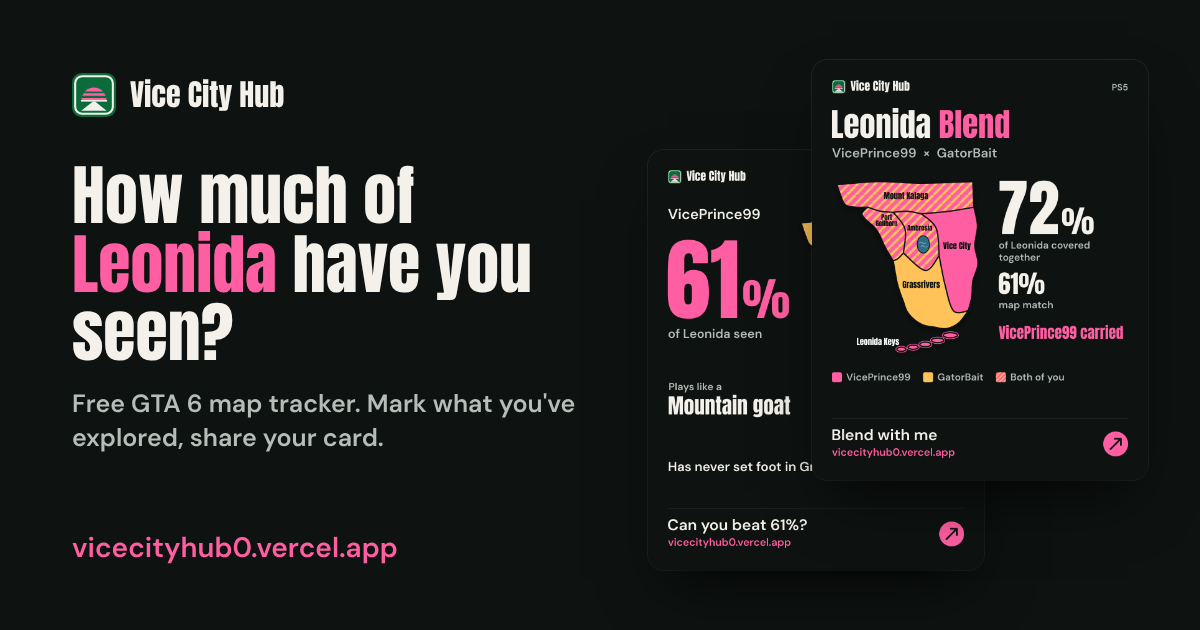
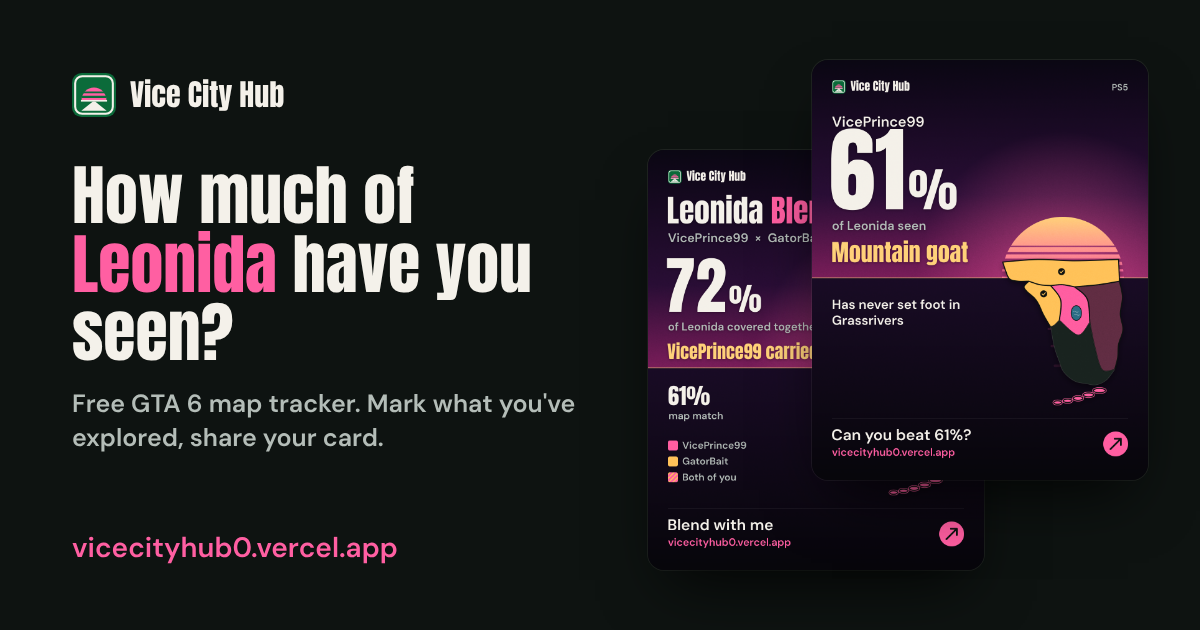
Cards as posters: Leonida at dusk
Every share card is now a poster grown from the hub's own mark, a striped sun
setting over the road: a sky in the theme's colours, the sun half under the
horizon with the mark's bands cut through it, the sea with its reflection,
and the map rising from the sea in front of the sun.

- The big number sits in the open sky; the playstyle, rank or Blend result
  in the sun's gold just above the horizon; details on the dark sea.
- No small grey labels above headings.
- Fine grain over each card so the gradients never band after a feed
  recompresses the image.
- Bingo card on the same scene, without the reflection behind its score.
- Link preview rebuilt with the new cards.

Claude-Session: https://claude.ai/code/session_01V1vhkYmtr5WoKPd5KrFuy5

diff --git a/site/hub/hub.js b/site/hub/hub.js
@@ -78,11 +78,11 @@
   // passed is the accent at 35% over the background, so all four levels step clearly in lightness as well as colour.
   var THEMES = {
     night:  { name: 'Neon night', bg: '#0E1311', bg2: '#0E1311', ink: '#F4F1EA', ink2: '#B4BDB8', accent: '#FF5FA2', passed: '#622E44', done: '#FFC35A',
-              onFull: '#0E1311', edge: '#0E1311', lake: '#2C6E86', sea: '#0F1F25', line: 'rgba(244,241,234,.14)', fog: 'rgba(244,241,234,.09)', fill: ['#1A2420'] },
+              onFull: '#0E1311', edge: '#0E1311', lake: '#2C6E86', sea: '#0F1F25', sky: ['#0B0714', '#2A0E36', '#7A1E5A'], sun: ['#FFD27A', '#FF5FA2'], water: ['#1A0C26', '#07060B'], line: 'rgba(244,241,234,.14)', fog: 'rgba(244,241,234,.09)', fill: ['#1A2420'] },
     sunset: { name: 'Golden hour', bg: '#2A0F22', bg2: '#4A1A2A', ink: '#FFF3E4', ink2: '#F2C9B0', accent: '#FF6B5B', passed: '#742F36', done: '#FFC35A',
-              onFull: '#2A0F22', edge: '#2A0F22', lake: '#3B6C8C', sea: '#341429', line: 'rgba(255,243,228,.16)', fog: 'rgba(255,214,170,.10)', fill: ['#3A1A30'] },
+              onFull: '#2A0F22', edge: '#2A0F22', lake: '#3B6C8C', sea: '#341429', sky: ['#1A0714', '#4A1430', '#C2413F'], sun: ['#FFE6A0', '#FF6B5B'], water: ['#2A0D1E', '#0E050C'], line: 'rgba(255,243,228,.16)', fog: 'rgba(255,214,170,.10)', fill: ['#3A1A30'] },
     ocean:  { name: 'Ocean drive', bg: '#08151F', bg2: '#0B2233', ink: '#EEF7FA', ink2: '#A9C3CC', accent: '#3FD6E8', passed: '#1B5965', done: '#FFC35A',
-              onFull: '#08151F', edge: '#08151F', lake: '#2A6F93', sea: '#0A1C29', line: 'rgba(238,247,250,.14)', fog: 'rgba(238,247,250,.09)', fill: ['#14232E'] }
+              onFull: '#08151F', edge: '#08151F', lake: '#2A6F93', sea: '#0A1C29', sky: ['#030B12', '#0A2A40', '#1F7A8C'], sun: ['#FFE7A0', '#FF8A5B'], water: ['#062030', '#02080D'], line: 'rgba(238,247,250,.14)', fog: 'rgba(238,247,250,.09)', fill: ['#14232E'] }
   };
   function levelFill(T, l) { return [null, T.passed, T.accent, T.done][l]; }
   // Short level words on the map, so a label never runs past its region.
@@ -924,15 +924,16 @@
     cv.width = W * 2; cv.height = H * 2;
     var ctx = cv.getContext('2d');
     ctx.setTransform(2, 0, 0, 2, 0, 0);
-    var bg = ctx.createLinearGradient(0, 0, 0, H); bg.addColorStop(0, T.bg); bg.addColorStop(1, T.bg2);
-    ctx.fillStyle = bg; ctx.fillRect(0, 0, W, H);
     ctx.textAlign = 'left'; ctx.textBaseline = 'alphabetic';
+    scene(ctx, T, W, H, 470, 880, 140, true);
     topRow(ctx, T, W, 64, 44);
-    var head = tr('Leonida Bingo') + '  ·  ' + monthName(bingo.season);
-    ctx.fillStyle = T.accent; fitText(ctx, head, W - 128, 36, '600 {s}px "DM Sans", sans-serif'); ctx.fillText(head, 64, 214);
-    ctx.fillStyle = T.ink; fitText(ctx, L.label, W - 128, 104, '400 {s}px Anton, sans-serif'); ctx.fillText(L.label, 60, 330);
-    ctx.fillStyle = T.ink2; fitText(ctx, L.why, W - 128, 36, '600 {s}px "DM Sans", sans-serif'); ctx.fillText(L.why, 64, 386);
-    var gx = 64, gy = 446, cs = 104, gap = 10, on = {};
+    lift(ctx, true);
+    ctx.fillStyle = T.ink; fitText(ctx, L.label, 680, 100, '400 {s}px Anton, sans-serif'); ctx.fillText(L.label, 60, 258);
+    var sub = tr('Leonida Bingo') + ' · ' + monthName(bingo.season);
+    ctx.fillStyle = T.sun[0]; fitText(ctx, sub, 680, 38, '600 {s}px "DM Sans", sans-serif'); ctx.fillText(sub, 64, 320);
+    ctx.fillStyle = T.ink2; fitText(ctx, L.why, 680, 34, '600 {s}px "DM Sans", sans-serif'); ctx.fillText(L.why, 64, 372);
+    lift(ctx, false);
+    var gx = 64, gy = 520, cs = 100, gap = 10, on = {};
     LINES5.forEach(function (l) { if (l.every(function (i) { return bingo.marks[i]; })) l.forEach(function (i) { on[i] = 1; }); });
     bingo.squares.forEach(function (q, i) {
       var x = gx + (i % 5) * (cs + gap), y = gy + Math.floor(i / 5) * (cs + gap);
@@ -949,19 +950,20 @@
       }
     });
     var rx = 664, n = tickedIn(bingo.marks), ln = bingoLines();
-    ctx.fillStyle = T.ink; ctx.font = '400 128px Anton, sans-serif'; ctx.fillText(String(n), rx, 560);
+    ctx.fillStyle = T.ink; ctx.font = '400 128px Anton, sans-serif'; ctx.fillText(String(n), rx, 636);
     var nw = ctx.measureText(String(n)).width;
-    ctx.fillStyle = T.ink2; ctx.font = '400 60px Anton, sans-serif'; ctx.fillText('/24', rx + nw + 10, 560);
-    ctx.font = '600 32px "DM Sans", sans-serif'; ctx.fillText(tr('squares ticked'), rx + 2, 606);
-    ctx.fillStyle = ln ? T.done : T.ink; ctx.font = '400 92px Anton, sans-serif';
-    ctx.fillText(ln === 1 ? tr('1 line') : tr('{n} lines', { n: ln }), rx, 730);
+    ctx.fillStyle = T.ink2; ctx.font = '400 60px Anton, sans-serif'; ctx.fillText('/24', rx + nw + 10, 636);
+    ctx.font = '600 32px "DM Sans", sans-serif'; ctx.fillText(tr('squares ticked'), rx + 2, 682);
+    ctx.fillStyle = ln ? T.sun[0] : T.ink; ctx.font = '400 92px Anton, sans-serif';
+    ctx.fillText(ln === 1 ? tr('1 line') : tr('{n} lines', { n: ln }), rx, 800);
     BORDER.forEach(function (t, k) {
-      var y = 830 + k * 56, c = L.per[t];
+      var y = 880 + k * 54, c = L.per[t];
       roundRect(ctx, rx, y - 28, 32, 32, 7); ctx.fillStyle = BTHEME[t].color; ctx.fill();
       ctx.fillStyle = T.ink2; fitText(ctx, tr(BTHEME[t].name) + '  ' + c[0] + '/' + c[1], 1016 - rx - 48, 34, '600 {s}px "DM Sans", sans-serif');
       ctx.fillText(tr(BTHEME[t].name) + '  ' + c[0] + '/' + c[1], rx + 48, y);
     });
     dare(ctx, T, W, H, 0, n === 24 ? tr('Blackout. Can you match it?') : tr('Beat my bingo card'));
+    grain(ctx, W, H);
   }
   function star(ctx, cx, cy, r, color) {
     ctx.beginPath();
@@ -1352,11 +1354,6 @@
     ctx.font = '400 ' + Math.round(s / 2) + 'px Anton, sans-serif'; ctx.fillText('%', x + nw + 8, y);
     ctx.restore();
   }
-  // A label block: a small grey kicker over the value in the display face. Quiet, so the big number leads.
-  function labelBlock(ctx, T, kicker, value, x, y, size, maxW) {
-    ctx.fillStyle = T.ink2; fitText(ctx, kicker, maxW, Math.round(size * 0.46), '600 {s}px "DM Sans", sans-serif'); ctx.fillText(kicker, x + 2, y);
-    ctx.fillStyle = T.ink; fitText(ctx, value, maxW, size, '400 {s}px Anton, sans-serif'); ctx.fillText(value, x, y + size * 1.08);
-  }
   // A playstyle from where you went most, not how much: everyone gets a label they'd post.
   var STYLES = { kalaga: 'Mountain goat', gellhorn: 'Dockside drifter', ambrosia: 'Small-town legend', vice: 'City slicker', grass: 'Swamp rat', keys: 'Beach bum' };
   function playstyle(lv) {
@@ -1450,32 +1447,93 @@
     return ctx.createPattern(c, 'repeat');
   }
 
-  // Map cards: who, one huge number, the playstyle, the map, one true line. Only the number and the map carry colour.
+  // ---- the scene behind every card: Leonida at dusk, from the hub's own mark (a striped sun setting over the road) ----
+  // A sky in the theme's colours, the sun half under the horizon with the mark's bands cut through it, the sea with
+  // the sun's reflection, and a fine grain so gradients never band when a feed recompresses the image.
+  var grainTile = null;
+  function grain(ctx, W, H) {
+    if (!grainTile) {
+      grainTile = document.createElement('canvas'); grainTile.width = grainTile.height = 160;
+      var g = grainTile.getContext('2d'), d = g.createImageData(160, 160), seed = 7;
+      for (var i = 0; i < d.data.length; i += 4) {
+        seed = (Math.imul(seed, 1103515245) + 12345) >>> 0;
+        var v = (seed >>> 24) & 255; d.data[i] = d.data[i + 1] = d.data[i + 2] = v; d.data[i + 3] = 14;
+      }
+      g.putImageData(d, 0, 0);
+    }
+    ctx.save(); ctx.globalCompositeOperation = 'overlay'; ctx.fillStyle = ctx.createPattern(grainTile, 'repeat'); ctx.fillRect(0, 0, W, H); ctx.restore();
+  }
+  function scene(ctx, T, W, H, hy, sx, sr, still) {
+    var sky = ctx.createLinearGradient(0, 0, 0, hy);
+    sky.addColorStop(0, T.sky[0]); sky.addColorStop(0.62, T.sky[1]); sky.addColorStop(1, T.sky[2]);
+    ctx.fillStyle = sky; ctx.fillRect(0, 0, W, hy);
+    // a soft glow where the sun sits
+    var glow = ctx.createRadialGradient(sx, hy, sr * 0.4, sx, hy, sr * 2.4);
+    glow.addColorStop(0, hexA(T.sun[1], 0.45)); glow.addColorStop(1, hexA(T.sun[1], 0));
+    ctx.fillStyle = glow; ctx.fillRect(0, 0, W, hy);
+    // the sun, drawn on its own layer so the mark's bands cut only the sun, never the glow behind it
+    var sc = document.createElement('canvas'), d = Math.ceil(sr * 2) + 4;
+    sc.width = d * 2; sc.height = Math.ceil(sr) * 2 + 4;
+    var g = sc.getContext('2d'); g.scale(2, 2);
+    var sun = g.createLinearGradient(0, 0, 0, sr);
+    sun.addColorStop(0, T.sun[0]); sun.addColorStop(1, T.sun[1]);
+    g.beginPath(); g.arc(d / 2, sr + 1, sr, Math.PI, 0); g.fillStyle = sun; g.fill();
+    g.globalCompositeOperation = 'destination-out';
+    for (var k = 0; k < 5; k++) g.fillRect(0, sr * 0.48 + k * sr * 0.105, d, 4 + k * 3.2);
+    ctx.drawImage(sc, sx - d / 2, hy - sr - 1, d, sr + 2);
+    // the sea
+    var sea = ctx.createLinearGradient(0, hy, 0, H);
+    sea.addColorStop(0, T.water[0]); sea.addColorStop(1, T.water[1]);
+    ctx.fillStyle = sea; ctx.fillRect(0, hy, W, H - hy);
+    // the sun's reflection: short bright dashes that thin out towards the viewer
+    ctx.fillStyle = hexA(T.sun[1], 0.55);
+    for (var r = 0; r < (still ? 0 : 9); r++) {
+      var ry = hy + 10 + r * r * 4.2, rw = sr * (1.1 - r * 0.1), rh = 3 + r * 0.6;
+      if (rw <= 8) break;
+      ctx.globalAlpha = 0.75 - r * 0.07; roundRect(ctx, sx - rw / 2, ry, rw, rh, rh / 2); ctx.fill();
+    }
+    ctx.globalAlpha = 1;
+    ctx.fillStyle = hexA(T.sun[0], 0.7); ctx.fillRect(0, hy - 1, W, 2);
+  }
+  function hexA(hex, a) {
+    var n = parseInt(hex.slice(1), 16);
+    return 'rgba(' + (n >> 16 & 255) + ',' + (n >> 8 & 255) + ',' + (n & 255) + ',' + a + ')';
+  }
+  // Text over the sky gets a soft dark shadow so it holds on every part of the gradient.
+  function lift(ctx, on) { if (on) { ctx.shadowColor = 'rgba(0,0,0,.35)'; ctx.shadowBlur = 18; ctx.shadowOffsetY = 4; } else { ctx.shadowColor = 'transparent'; ctx.shadowBlur = 0; ctx.shadowOffsetY = 0; } }
+
+  // Map cards: a poster. The number in the sky, the playstyle under it, Leonida rising from the sea in front of the sun.
   function drawSquare(ctx, T, W, H) {
     var n = steps(), p = pctOf(n);
+    scene(ctx, T, W, H, 700, 806, 196);
     topRow(ctx, T, W, 64, 44);
+    lift(ctx, true);
     ctx.fillStyle = T.ink; var nm = cardName();
-    fitText(ctx, nm, 400, 46, '600 {s}px "DM Sans", sans-serif'); ctx.fillText(nm, 64, 222);
-    backed(ctx, T, 64, 266, 32);
-    bigPct(ctx, T, p, 56, 540, 410, 290);
-    ctx.fillStyle = T.ink2; ctx.font = '600 40px "DM Sans", sans-serif'; ctx.fillText(tr('of Leonida seen'), 64, 604);
-    labelBlock(ctx, T, tr('Plays like a'), playstyle(), 64, 772, 72, 400);
-    drawMap(ctx, T, 464, 176, 0.93, null, { labels: true });
-    ctx.fillStyle = T.ink; wrapFit(ctx, verdict(), 64, 1032, W - 128, 42, 34, 2, '600');
+    fitText(ctx, nm, 520, 46, '600 {s}px "DM Sans", sans-serif'); ctx.fillText(nm, 64, 214);
+    bigPct(ctx, T, p, 54, 480, 520, 300, p === 100 ? T.done : T.ink);
+    ctx.fillStyle = T.ink2; ctx.font = '600 40px "DM Sans", sans-serif'; ctx.fillText(tr('of Leonida seen'), 64, 546);
+    ctx.fillStyle = T.sun[0]; fitText(ctx, playstyle(), 500, 76, '400 {s}px Anton, sans-serif'); ctx.fillText(playstyle(), 62, 650);
+    lift(ctx, false);
+    drawMap(ctx, T, 592, 606, 0.7, null);
+    ctx.fillStyle = T.ink; wrapFit(ctx, verdict(), 64, 800, 470, 42, 32, 3, '600');
     dare(ctx, T, W, H, 0, mapDare(p));
+    grain(ctx, W, H);
   }
   function drawStory(ctx, T, W, H) {
     var n = steps(), p = pctOf(n);
+    scene(ctx, T, W, H, 990, 806, 220);
     topRow(ctx, T, W, 250, 52);
+    lift(ctx, true);
     ctx.fillStyle = T.ink; var nm = cardName();
     fitText(ctx, nm, W - 128, 54, '600 {s}px "DM Sans", sans-serif'); ctx.fillText(nm, 64, 408);
-    backed(ctx, T, 64, 456, 36);
-    bigPct(ctx, T, p, 54, 760, 420, 320);
-    ctx.fillStyle = T.ink2; ctx.font = '600 46px "DM Sans", sans-serif'; ctx.fillText(tr('of Leonida seen'), 64, 832);
-    drawMap(ctx, T, 476, 372, 0.9, null, { labels: true });
-    labelBlock(ctx, T, tr('Plays like a'), playstyle(), 64, 1120, 96, W - 128);
-    ctx.fillStyle = T.ink; wrapFit(ctx, verdict(), 64, 1312, W - 128, 46, 34, 2, '600');
+    bigPct(ctx, T, p, 52, 770, W - 128, 340, p === 100 ? T.done : T.ink);
+    ctx.fillStyle = T.ink2; ctx.font = '600 48px "DM Sans", sans-serif'; ctx.fillText(tr('of Leonida seen'), 64, 840);
+    ctx.fillStyle = T.sun[0]; fitText(ctx, playstyle(), 500, 88, '400 {s}px Anton, sans-serif'); ctx.fillText(playstyle(), 62, 950);
+    lift(ctx, false);
+    drawMap(ctx, T, 572, 880, 0.74, null, { labels: true });
+    ctx.fillStyle = T.ink; wrapFit(ctx, verdict(), 64, 1100, 460, 46, 34, 3, '600');
     dare(ctx, T, W, H, 0, mapDare(p));
+    grain(ctx, W, H);
   }
 
   // The lake reads as water: a blue pool with a dark shore and two light ripples, never a black hole.
@@ -1623,33 +1681,40 @@
     ctx.fillStyle = T.accent; ctx.fillText(tr('Wrapped'), x + aw, y);
   }
   function wrappedSub() { return cardName() + '  ·  ' + tr('since 19 Nov 2026'); }
+  function wrappedGrid(ctx, T, st, x, y, cw, rh, vs, ls) {
+    st.forEach(function (c, k) { statCell(ctx, T, c, x + (k % 2) * cw, y + Math.floor(k / 2) * rh, cw, vs, ls); });
+  }
   function drawWrappedSquare(ctx, T, W, H) {
     var n = steps(), p = pctOf(n), st = wrappedStats();
+    scene(ctx, T, W, H, 700, 806, 196);
     topRow(ctx, T, W, 64, 44);
-    wrappedHead(ctx, T, 60, 250, 104);
-    ctx.fillStyle = T.ink2; fitText(ctx, wrappedSub(), W - 128, 36, '600 {s}px "DM Sans", sans-serif'); ctx.fillText(wrappedSub(), 64, 312);
-    bigPct(ctx, T, p, 56, 580, 420, 240);
-    ctx.fillStyle = T.ink2; ctx.font = '600 38px "DM Sans", sans-serif'; ctx.fillText(tr('of Leonida seen'), 64, 640);
-    labelBlock(ctx, T, tr('Rank'), rank(n), 64, 734, 64, 420);
-    drawMap(ctx, T, 540, 360, 0.74);
-    ctx.fillStyle = T.line; ctx.fillRect(64, 900, W - 128, 2);
-    var cw = (W - 128) / st.length;
-    st.forEach(function (x, k) { statCell(ctx, T, x, 64 + k * cw, 1010, cw, st.length > 3 ? 76 : 88, 32); });
+    lift(ctx, true);
+    wrappedHead(ctx, T, 60, 236, 100);
+    ctx.fillStyle = T.ink2; fitText(ctx, wrappedSub(), W - 128, 36, '600 {s}px "DM Sans", sans-serif'); ctx.fillText(wrappedSub(), 64, 296);
+    bigPct(ctx, T, p, 54, 530, 520, 220, p === 100 ? T.done : T.ink);
+    ctx.fillStyle = T.ink2; ctx.font = '600 38px "DM Sans", sans-serif'; ctx.fillText(tr('of Leonida seen'), 64, 592);
+    ctx.fillStyle = T.sun[0]; fitText(ctx, rank(n), 500, 70, '400 {s}px Anton, sans-serif'); ctx.fillText(rank(n), 62, 680);
+    lift(ctx, false);
+    drawMap(ctx, T, 592, 606, 0.7, null);
+    wrappedGrid(ctx, T, st, 64, 812, 250, 160, 72, 30);
     dare(ctx, T, W, H, 0, tr('Get your Leonida Wrapped'));
+    grain(ctx, W, H);
   }
   function drawWrappedStory(ctx, T, W, H) {
     var n = steps(), p = pctOf(n), st = wrappedStats();
+    scene(ctx, T, W, H, 990, 806, 220);
     topRow(ctx, T, W, 250, 52);
-    wrappedHead(ctx, T, 58, 450, 132);
-    ctx.fillStyle = T.ink2; fitText(ctx, wrappedSub(), W - 128, 42, '600 {s}px "DM Sans", sans-serif'); ctx.fillText(wrappedSub(), 64, 520);
-    bigPct(ctx, T, p, 54, 840, 470, 330);
-    ctx.fillStyle = T.ink2; ctx.font = '600 46px "DM Sans", sans-serif'; ctx.fillText(tr('of Leonida seen'), 64, 910);
-    labelBlock(ctx, T, tr('Rank'), rank(n), 64, 1010, 76, 450);
-    drawMap(ctx, T, 560, 580, 0.74);
-    ctx.fillStyle = T.line; ctx.fillRect(64, 1150, W - 128, 2);
-    var rows = st.length > 2 ? 2 : 1;
-    st.forEach(function (x, k) { statCell(ctx, T, x, 64 + (k % 2) * 476, (rows === 2 ? 1240 : 1272) + Math.floor(k / 2) * 120, 476, rows === 2 ? 80 : 96, 36); });
+    lift(ctx, true);
+    wrappedHead(ctx, T, 58, 450, 128);
+    ctx.fillStyle = T.ink2; fitText(ctx, wrappedSub(), W - 128, 42, '600 {s}px "DM Sans", sans-serif'); ctx.fillText(wrappedSub(), 64, 522);
+    bigPct(ctx, T, p, 54, 800, 520, 280, p === 100 ? T.done : T.ink);
+    ctx.fillStyle = T.ink2; ctx.font = '600 46px "DM Sans", sans-serif'; ctx.fillText(tr('of Leonida seen'), 64, 870);
+    ctx.fillStyle = T.sun[0]; fitText(ctx, rank(n), 500, 84, '400 {s}px Anton, sans-serif'); ctx.fillText(rank(n), 62, 966);
+    lift(ctx, false);
+    drawMap(ctx, T, 572, 880, 0.74, null);
+    wrappedGrid(ctx, T, st, 64, 1120, 250, 168, 84, 34);
     dare(ctx, T, W, H, 0, tr('Get your Leonida Wrapped'));
+    grain(ctx, W, H);
   }
 
   // Leonida Blend: your map and a friend's (from their challenge link) on one card. Your colour is you, gold is them,
@@ -1664,13 +1729,11 @@
   function blendCarry(st) { return st.carry === 0 ? tr('Dead even') : tr('{name} carried', { name: st.carry > 0 ? blendMe() : rival.name }); }
   function blendKey(ctx, T, x, y, size, maxW) {
     var keyFill = [[T.accent, blendMe()], [T.done, rival.name], [stripes(ctx, T.accent, T.done, 14), tr('Both of you')]];
-    var cx = x, room = (maxW - (size + 14) * 3 - 80) / 3;
-    keyFill.forEach(function (l) {
-      roundRect(ctx, cx, y - size * 0.82, size, size, 6); ctx.fillStyle = l[0]; ctx.fill();
-      ctx.fillStyle = T.ink2; ctx.font = '600 ' + size + 'px "DM Sans", sans-serif';
-      var label = l[1]; while (ctx.measureText(label).width > room && label.length > 3) label = label.slice(0, -2) + '…';
-      ctx.fillText(label, cx + size + 14, y);
-      cx += size + 14 + ctx.measureText(label).width + 40;
+    keyFill.forEach(function (l, k) {
+      var ky = y + k * size * 1.6;
+      roundRect(ctx, x, ky - size * 0.82, size, size, 6); ctx.fillStyle = l[0]; ctx.fill();
+      ctx.fillStyle = T.ink2; fitText(ctx, l[1], maxW - size - 14, size, '600 {s}px "DM Sans", sans-serif');
+      ctx.fillText(l[1], x + size + 14, ky);
     });
   }
   function blendHead(ctx, T, W, y, size, pairSize) {
@@ -1682,29 +1745,38 @@
     ctx.fillStyle = T.ink2; fitText(ctx, pair, W - 128, pairSize, '600 {s}px "DM Sans", sans-serif'); ctx.fillText(pair, 64, y + pairSize * 1.5);
   }
   function drawBlendSquare(ctx, T, W, H) {
-    var st = blendStats(), x = 600;
+    var st = blendStats();
+    scene(ctx, T, W, H, 700, 806, 196);
     topRow(ctx, T, W, 64, 44);
-    blendHead(ctx, T, W, 250, 104, 42);
-    drawMap(ctx, T, 56, 350, 0.82, { mine: levels, theirs: rival.levels }, { labels: true });
-    bigPct(ctx, T, st.cover, x - 4, 560, 416, 200, T.ink);
-    ctx.fillStyle = T.ink2; wrapFit(ctx, tr('of Leonida covered together'), x, 606, 416, 32, 30, 2, '600');
-    ctx.fillStyle = T.ink; ctx.font = '400 80px Anton, sans-serif'; ctx.fillText(st.match + '%', x - 2, 752);
-    ctx.fillStyle = T.ink2; fitText(ctx, tr('map match'), 416, 32, '600 {s}px "DM Sans", sans-serif'); ctx.fillText(tr('map match'), x, 798);
-    ctx.fillStyle = T.accent; fitText(ctx, blendCarry(st), 416, 60, '400 {s}px Anton, sans-serif'); ctx.fillText(blendCarry(st), x, 896);
-    blendKey(ctx, T, 64, 1030, 32, W - 128);
+    lift(ctx, true);
+    blendHead(ctx, T, W, 236, 100, 40);
+    bigPct(ctx, T, st.cover, 54, 520, 500, 200, T.ink);
+    ctx.fillStyle = T.ink2; fitText(ctx, tr('of Leonida covered together'), 500, 36, '600 {s}px "DM Sans", sans-serif');
+    ctx.fillText(tr('of Leonida covered together'), 64, 580);
+    ctx.fillStyle = T.sun[0]; fitText(ctx, blendCarry(st), 500, 68, '400 {s}px Anton, sans-serif'); ctx.fillText(blendCarry(st), 62, 672);
+    lift(ctx, false);
+    drawMap(ctx, T, 592, 606, 0.7, { mine: levels, theirs: rival.levels });
+    statCell(ctx, T, [st.match + '%', tr('map match')], 64, 820, 480, 72, 32);
+    blendKey(ctx, T, 64, 960, 32, 480);
     dare(ctx, T, W, H, 0, tr('Blend with me'));
+    grain(ctx, W, H);
   }
   function drawBlendStory(ctx, T, W, H) {
     var st = blendStats();
+    scene(ctx, T, W, H, 990, 806, 220);
     topRow(ctx, T, W, 250, 52);
-    blendHead(ctx, T, W, 450, 132, 50);
-    var sc = 0.8; drawMap(ctx, T, (W - 600 * sc) / 2, 590, sc, { mine: levels, theirs: rival.levels }, { labels: true });
-    blendKey(ctx, T, 64, 1236, 34, W - 128);
-    ctx.fillStyle = T.line; ctx.fillRect(64, 1268, W - 128, 2);
-    statCell(ctx, T, [st.cover + '%', tr('covered together')], 64, 1366, 300, 96, 36);
-    statCell(ctx, T, [st.match + '%', tr('map match')], 380, 1366, 300, 96, 36);
-    statCell(ctx, T, [blendCarry(st), ' '], 700, 1366, 316, 64, 36);
+    lift(ctx, true);
+    blendHead(ctx, T, W, 450, 128, 48);
+    bigPct(ctx, T, st.cover, 54, 800, 520, 280, T.ink);
+    ctx.fillStyle = T.ink2; fitText(ctx, tr('of Leonida covered together'), 520, 44, '600 {s}px "DM Sans", sans-serif');
+    ctx.fillText(tr('of Leonida covered together'), 64, 866);
+    ctx.fillStyle = T.sun[0]; fitText(ctx, blendCarry(st), 500, 84, '400 {s}px Anton, sans-serif'); ctx.fillText(blendCarry(st), 62, 962);
+    lift(ctx, false);
+    drawMap(ctx, T, 572, 880, 0.74, { mine: levels, theirs: rival.levels }, { labels: true });
+    statCell(ctx, T, [st.match + '%', tr('map match')], 64, 1110, 480, 84, 36);
+    blendKey(ctx, T, 64, 1262, 34, 480);
     dare(ctx, T, W, H, 0, tr('Blend with me'));
+    grain(ctx, W, H);
   }
 
   // The day count since launch (19 Nov 2026 = Day one), on the visitor's own clock.

diff --git a/DESIGN.md b/DESIGN.md
@@ -87,19 +87,25 @@ its own bars. Every card type (Map, Wrapped, Blend, Bingo) has its own layout in
 feed shows a card at about a third of its size, so no text on a card is under 30px, and key text is 46px and up.
 Cards are checked after a 1080px resize and JPEG at quality 70, the way feeds recompress them.
 
-Only two things carry colour on a card: the big number and the map (or the bingo grid). Everything else is ink and
-grey. Anton is for the big number, the card title and the playstyle; everything else is DM Sans 600.
+Every card is a poster of Leonida at dusk, grown from the hub's own mark (a striped sun setting over the road): a sky in
+the theme's colours, the sun half under the horizon with the mark's five bands cut through it, the sea with the sun's
+reflection, and the map rising from the sea in front of the sun like the land itself. A fine grain over everything
+keeps the gradients from banding after a feed recompresses the image. Each theme has `sky`, `sun` and `water` colours.
+The big number sits in the open sky in white (gold at 100%); the playstyle, rank or Blend result in the sun's light
+gold under it; everything below the horizon sits on the dark sea. Anton is for the number, the card title and that
+gold line; everything else is DM Sans 600. No small grey label above a heading.
 
 Every card reads in the same order:
 
 1. **Top row:** the hub mark and "Vice City Hub" on the left; platform (and the day, if chosen) on the right.
 2. **Who:** the player's name or street name (DM Sans). A gold "Backed the hub" line under it for players who tipped.
 3. **The number:** the % in the theme accent, Anton, as large as the column allows. At 100% it turns gold.
-4. **The playstyle** (map card) or **rank** (Wrapped): a small grey kicker ("Plays like a", "Rank") over the value in Anton.
+4. **The playstyle** (map card), **rank** (Wrapped) or **who carried** (Blend), in Anton and the sun's gold, just above the horizon.
 5. **The verdict:** one true line only this player could have ("Has never set foot in Grassrivers",
    "4 of 6 regions still under the fog", "Finished every region of Leonida").
-6. **The map** with names. Seen regions in their level colour; unseen regions a flat dark fill (fine stripes turn to
-   mush once a feed recompresses the image).
+6. **The map**, rising from the sea in front of the sun. Seen regions in their level colour; unseen regions a flat dark
+   fill (fine stripes turn to mush once a feed recompresses the image). Names on the story map and Blend story only,
+   where they are large enough to read.
 7. **The footer:** a hairline, what to do in plain words ("Can you beat 50%?", "Get your Leonida Wrapped",
    "Blend with me"), the address in the accent colour, and an exit arrow in an accent ring.
 8. **Wrapped stats** show only what happened: a streak, dares or bingo lines that are still 0 are left out.
